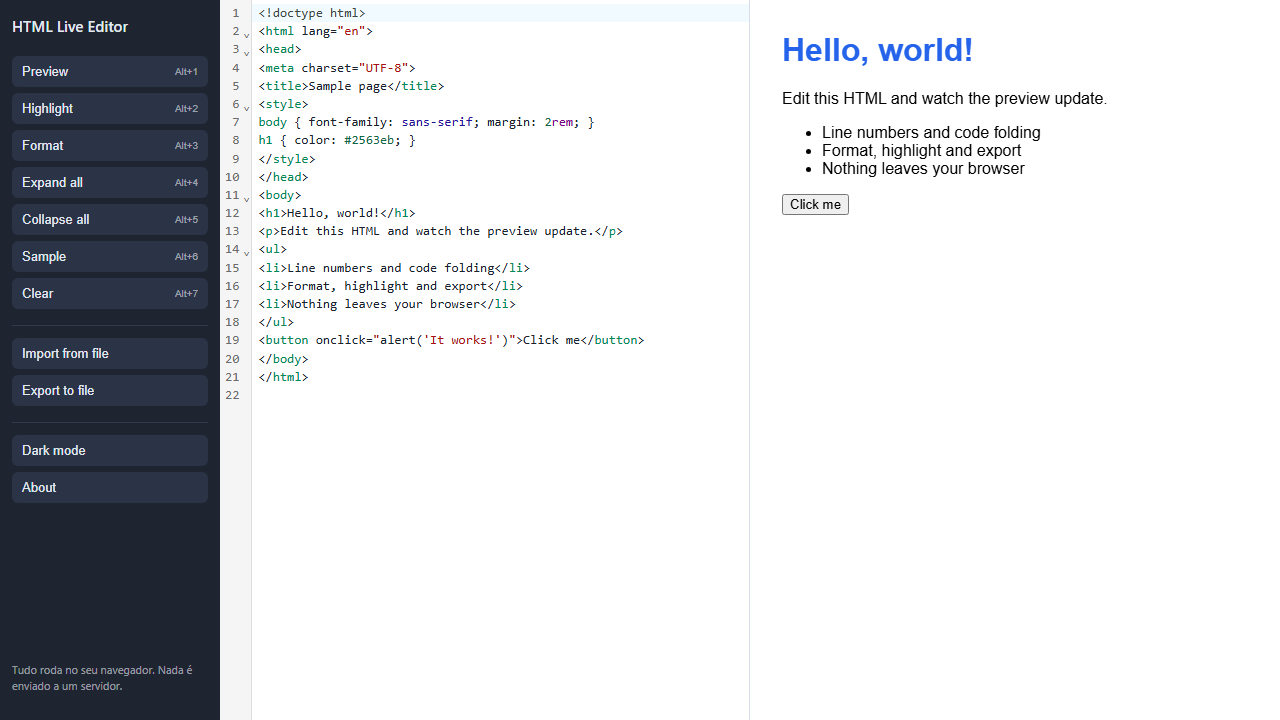
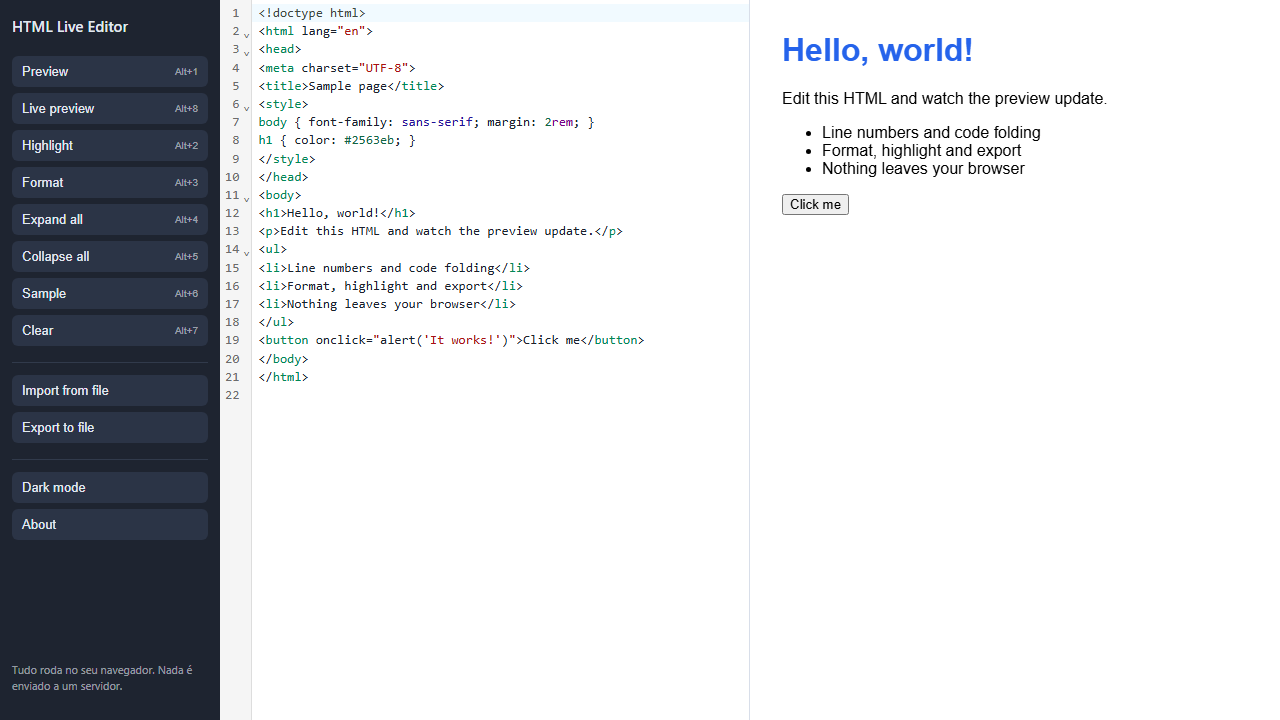
feat: add a live preview that syncs across browser tabs for a two-screen setup
The existing Preview button only opens a snapshot: it does not update
after you keep editing. Live preview opens a second tab (or a window
you can drag to another monitor) that stays in sync as you type,
using BroadcastChannel, a same-origin cross-tab messaging API, so
nothing leaves the browser.

A tab opened after editing already started still gets the current
content immediately: it asks for it on load, and the editor tab
answers right away instead of waiting for the next keystroke.

Adds a second Vite entry point (preview.html) for the standalone
live view, and 2 new end-to-end tests covering both the live sync
while typing and the request/response handshake for a late-opened tab.

diff --git a/src/main.ts b/src/main.ts
@@ -8,9 +8,16 @@ import { SAMPLE_HTML } from './sample';
 import { applyTheme, getStoredTheme, storeTheme } from './theme';
 import { loadSavedContent, saveContent } from './persistence';
 import { debounce } from './debounce';
+import { createLiveChannel, type LiveMessage } from './liveChannel';
 
 const previewFrame = document.querySelector<HTMLIFrameElement>('#preview-frame')!;
 const editorContainer = document.querySelector<HTMLElement>('#editor')!;
+const liveChannel = createLiveChannel();
+
+const broadcastLive = (html: string): void => {
+  const message: LiveMessage = { type: 'update', html };
+  liveChannel.postMessage(message);
+};
 
 const updatePreview = debounce((source: string) => {
   previewFrame.srcdoc = source;
@@ -18,14 +25,25 @@ const updatePreview = debounce((source: string) => {
 
 const persistContent = debounce((source: string) => saveContent(source), 500);
 
+const broadcastLiveDebounced = debounce(broadcastLive, 150);
+
 const initialContent = loadSavedContent() ?? SAMPLE_HTML;
 
 const editor = createEditor(editorContainer, initialContent, (value) => {
   updatePreview(value);
   persistContent(value);
+  broadcastLiveDebounced(value);
 });
 
 previewFrame.srcdoc = initialContent;
+
+// A live preview tab opened after this session started has no content yet;
+// it asks for the current value on load, and this responds immediately.
+liveChannel.onmessage = (event: MessageEvent<LiveMessage>) => {
+  if (event.data.type === 'request') {
+    broadcastLive(editor.getValue());
+  }
+};
 
 let theme = getStoredTheme();
 applyTheme(theme);
@@ -44,6 +62,10 @@ const toggleTheme = (): void => {
 
 const actions: Record<string, () => void> = {
   'btn-preview': () => openPreviewInNewTab(editor.getValue()),
+  'btn-live-preview': () => {
+    broadcastLive(editor.getValue());
+    window.open('/preview.html', '_blank', 'noopener,noreferrer');
+  },
   'btn-highlight': () => {
     const source = editor.getValue();
     void import('./highlightView').then(({ openHighlightInNewTab }) => openHighlightInNewTab(source));
@@ -92,6 +114,7 @@ const SHORTCUTS: Record<string, () => void> = {
   Digit5: () => actions['btn-collapse']!(),
   Digit6: () => actions['btn-sample']!(),
   Digit7: () => actions['btn-clear']!(),
+  Digit8: () => actions['btn-live-preview']!(),
 };
 
 window.addEventListener('keydown', (event) => {

diff --git a/e2e/editor.spec.ts b/e2e/editor.spec.ts
@@ -91,7 +91,7 @@ test('About dialog opens and closes', async ({ page }) => {
 
 test('Preview opens the rendered page in a new tab', async ({ page, context }) => {
   const pagePromise = context.waitForEvent('page');
-  await page.getByRole('button', { name: 'Preview' }).click();
+  await page.locator('#btn-preview').click();
   const newPage = await pagePromise;
 
   await expect(newPage.getByRole('heading', { name: 'Hello, world!' })).toBeVisible();
@@ -103,4 +103,32 @@ test('Highlight opens a read-only syntax-highlighted view in a new tab', async (
   const newPage = await pagePromise;
 
   await expect(newPage.locator('pre code')).toContainText('Hello, world!');
+});
+
+test('Live preview opens with the current content and keeps updating as you type', async ({ page, context }) => {
+  const pagePromise = context.waitForEvent('page');
+  await page.locator('#btn-live-preview').click();
+  const livePage = await pagePromise;
+
+  const liveFrame = livePage.frameLocator('#preview-frame');
+  await expect(liveFrame.getByRole('heading', { name: 'Hello, world!' })).toBeVisible();
+
+  await page.locator('.cm-content').click();
+  await page.keyboard.press('Control+End');
+  await page.keyboard.type('<h2>Second screen</h2>');
+
+  await expect(liveFrame.getByRole('heading', { name: 'Second screen' })).toBeVisible();
+});
+
+test('Live preview opened before any edits still receives the current content', async ({ page, context }) => {
+  await page.getByRole('button', { name: 'Clear' }).click();
+  await page.locator('.cm-content').click();
+  await page.keyboard.type('<p>Already here before the tab opened</p>');
+
+  const pagePromise = context.waitForEvent('page');
+  await page.locator('#btn-live-preview').click();
+  const livePage = await pagePromise;
+
+  const liveFrame = livePage.frameLocator('#preview-frame');
+  await expect(liveFrame.getByText('Already here before the tab opened')).toBeVisible();
 });

diff --git a/preview.html b/preview.html
@@ -1,0 +1,30 @@
+<!doctype html>
+<html lang="pt-BR">
+  <head>
+    <meta charset="UTF-8" />
+    <link rel="icon" type="image/svg+xml" href="/favicon.svg" />
+    <meta name="viewport" content="width=device-width, initial-scale=1.0" />
+    <title>Live Preview</title>
+    <style>
+      html,
+      body {
+        margin: 0;
+        height: 100%;
+      }
+      iframe {
+        display: block;
+        width: 100%;
+        height: 100%;
+        border: none;
+      }
+    </style>
+  </head>
+  <body>
+    <iframe
+      id="preview-frame"
+      title="Pré-visualização ao vivo"
+      sandbox="allow-scripts allow-forms allow-popups"
+    ></iframe>
+    <script type="module" src="/src/previewPage.ts"></script>
+  </body>
+</html>

diff --git a/index.html b/index.html
@@ -13,6 +13,9 @@
 
         <div class="button-group">
           <button id="btn-preview" class="tool-button" type="button"><span>Preview</span><kbd>Alt+1</kbd></button>
+          <button id="btn-live-preview" class="tool-button" type="button">
+            <span>Live preview</span><kbd>Alt+8</kbd>
+          </button>
           <button id="btn-highlight" class="tool-button" type="button"><span>Highlight</span><kbd>Alt+2</kbd></button>
           <button id="btn-format" class="tool-button" type="button"><span>Format</span><kbd>Alt+3</kbd></button>
           <button id="btn-expand" class="tool-button" type="button"><span>Expand all</span><kbd>Alt+4</kbd></button>

diff --git a/src/previewPage.ts b/src/previewPage.ts
@@ -1,0 +1,13 @@
+import { createLiveChannel, type LiveMessage } from './liveChannel';
+
+const frame = document.querySelector<HTMLIFrameElement>('#preview-frame')!;
+const channel = createLiveChannel();
+
+channel.onmessage = (event: MessageEvent<LiveMessage>) => {
+  if (event.data.type === 'update') {
+    frame.srcdoc = event.data.html;
+  }
+};
+
+const request: LiveMessage = { type: 'request' };
+channel.postMessage(request);

diff --git a/vite.config.ts b/vite.config.ts
@@ -1,0 +1,13 @@
+import { defineConfig } from 'vite';
+import { resolve } from 'node:path';
+
+export default defineConfig({
+  build: {
+    rollupOptions: {
+      input: {
+        main: resolve(import.meta.dirname, 'index.html'),
+        preview: resolve(import.meta.dirname, 'preview.html'),
+      },
+    },
+  },
+});

diff --git a/src/liveChannel.ts b/src/liveChannel.ts
@@ -1,0 +1,5 @@
+export const LIVE_CHANNEL_NAME = 'html-live-editor:live-preview';
+
+export type LiveMessage = { type: 'update'; html: string } | { type: 'request' };
+
+export const createLiveChannel = (): BroadcastChannel => new BroadcastChannel(LIVE_CHANNEL_NAME);

diff --git a/README.md b/README.md
@@ -12,18 +12,19 @@ Ferramentas desse tipo parecem simples, mas escondem alguns detalhes que valem a
 
 ## Funcionalidades
 
-| Botão            | Atalho | O que faz                                                                                           |
-| ---------------- | ------ | --------------------------------------------------------------------------------------------------- |
-| Preview          | Alt+1  | Abre o HTML renderizado em uma nova aba                                                             |
-| Highlight        | Alt+2  | Abre o código com destaque de sintaxe (highlight.js) em uma nova aba, com busca nativa do navegador |
-| Format           | Alt+3  | Formata o HTML (js-beautify)                                                                        |
-| Expand all       | Alt+4  | Desfaz todo o dobramento de código                                                                  |
-| Collapse all     | Alt+5  | Dobra todo bloco dobrável                                                                           |
-| Sample           | Alt+6  | Insere um HTML de exemplo                                                                           |
-| Clear            | Alt+7  | Limpa o editor                                                                                      |
-| Import from file |        | Carrega um arquivo `.html` local no editor                                                          |
-| Export to file   |        | Baixa o conteúdo atual como `.html`                                                                 |
-| Dark mode        |        | Alterna tema, persistido em `localStorage`                                                          |
+| Botão            | Atalho | O que faz                                                                                                                                       |
+| ---------------- | ------ | ----------------------------------------------------------------------------------------------------------------------------------------------- |
+| Preview          | Alt+1  | Abre o HTML renderizado em uma nova aba (uma foto do conteúdo no momento do clique)                                                             |
+| Live preview     | Alt+8  | Abre a pré-visualização em uma nova aba ou janela que continua atualizando em tempo real, útil para deixar em um segundo monitor enquanto edita |
+| Highlight        | Alt+2  | Abre o código com destaque de sintaxe (highlight.js) em uma nova aba, com busca nativa do navegador                                             |
+| Format           | Alt+3  | Formata o HTML (js-beautify)                                                                                                                    |
+| Expand all       | Alt+4  | Desfaz todo o dobramento de código                                                                                                              |
+| Collapse all     | Alt+5  | Dobra todo bloco dobrável                                                                                                                       |
+| Sample           | Alt+6  | Insere um HTML de exemplo                                                                                                                       |
+| Clear            | Alt+7  | Limpa o editor                                                                                                                                  |
+| Import from file |        | Carrega um arquivo `.html` local no editor                                                                                                      |
+| Export to file   |        | Baixa o conteúdo atual como `.html`                                                                                                             |
+| Dark mode        |        | Alterna tema, persistido em `localStorage`                                                                                                      |
 
 O conteúdo do editor também é salvo automaticamente em `localStorage`, então recarregar a página não perde o trabalho.
 
@@ -32,6 +33,7 @@ O conteúdo do editor também é salvo automaticamente em `localStorage`, então
 - **Pré-visualização isolada:** o iframe da pré-visualização usa `sandbox="allow-scripts allow-forms allow-popups"`, sem `allow-same-origin`. Um script no HTML do usuário roda, mas em uma origem opaca, sem acesso ao DOM da página principal.
 - **Abrir em nova aba sem vazar memória:** tanto o Preview quanto o Highlight usam `URL.createObjectURL`, sempre revogado (`URL.revokeObjectURL`) alguns segundos depois de abrir a aba.
 - **Highlight sempre escapa antes de destacar:** a view de código destacado passa pelo highlight.js, que escapa o HTML de entrada antes de aplicar as classes de sintaxe. Coberto por teste (`highlightView.test.ts`) verificando que um `<script>` no código de entrada nunca aparece como tag executável na página de saída, só como texto.
+- **Sincronização entre abas sem servidor:** o Live preview usa `BroadcastChannel`, que só entrega mensagem entre abas da mesma origem, no mesmo navegador. Nenhum conteúdo do editor sai da máquina do usuário, nem para sincronizar as duas telas.
 
 ## Rodando localmente
 
@@ -52,6 +54,7 @@ npm run test:e2e      # Playwright, contra a aplicação real rodando
 
 - O bundle final inclui o CodeMirror com suporte a HTML (que carrega parsers aninhados de CSS e JS para `<style>`/`<script>`), então fica em torno de 190KB gzipado. O highlight.js é carregado sob demanda (`import()` dinâmico), só quando o botão Highlight é clicado.
 - Não há teste automatizado de Expand/Collapse all: a asserção visual de dobramento de código no CodeMirror não tem uma forma limpa de verificar via DOM sem acoplar o teste aos detalhes internos da extensão de fold.
+- Live preview funciona entre abas ou janelas do mesmo navegador, na mesma origem. Não funciona entre navegadores diferentes, nem entre dispositivos diferentes.
 
 ## Licença
 
